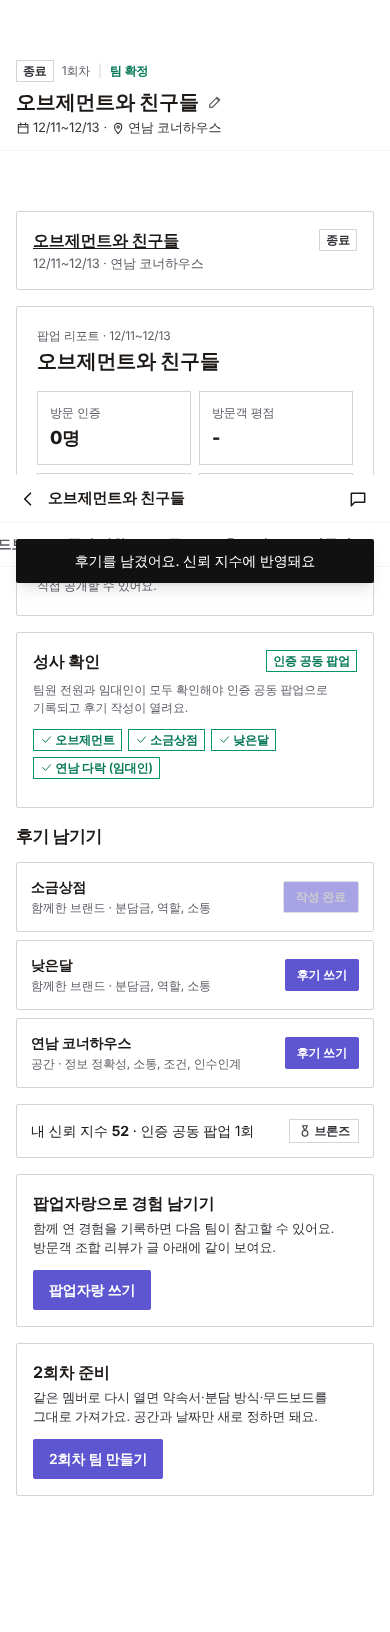
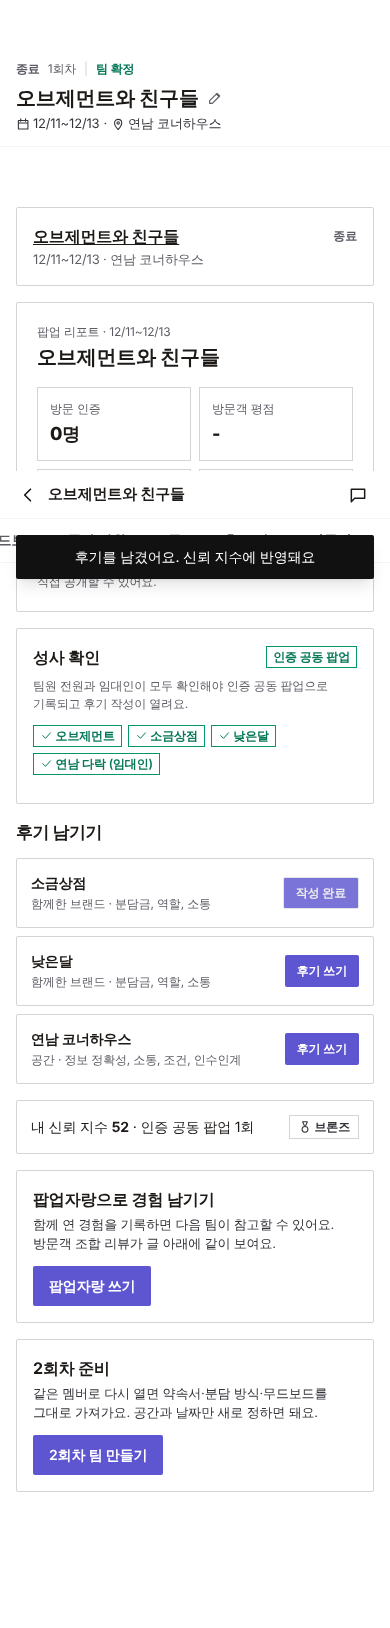
팝업·공간 상세: 태그 상자를 글줄로, 상태 표시를 글자로, 참여 브랜드 목록 정리
Claude-Session: https://claude.ai/code/session_0127PgxmrWax7HLBrSWBod79

diff --git a/src/screens/Popup.tsx b/src/screens/Popup.tsx
@@ -7,7 +7,7 @@ import { checkIn, claimStampReward, followAll, STAMP_GOAL, toggleWaitlist, write
 import { avg, brandById, dday, md, displayName, openNow, period, popupById, spaceById, spaceLatLng, teamById, waitCount } from '@/store/logic';
 import { KakaoMap, kakaoMapEnabled, type MapPin } from '@/components/KakaoMap';
 import { BrandLogo, PopupBannerCard, ScreenTitle, ThemeTagList } from '@/components/common';
-import { Button, Card, Chip, cx, Demo, Empty, inputCls, Segmented, Sheet, Stars, StatusPill, SubHeader, Swatch, Tabs, Tag, textareaCls, Ic, Icon } from '@/components/ui';
+import { Button, Card, Chip, cx, Demo, Empty, inputCls, Segmented, Sheet, Stars, SubHeader, Swatch, Tabs, textareaCls, Ic, Icon } from '@/components/ui';
 import type { DB } from '@/data/mock';
 import type { Popup } from '@/types';
 import { BrandActions } from './BrandActions';
@@ -29,9 +29,9 @@ export function ComboReviewList({ db, popupIds, sort = 'new' }: { db: DB; popupI
             <span className="text-[13px] font-semibold">{displayName(db, c.authorId)} <span className="text-ink-500 font-normal">· 방문 인증</span></span>
             <Stars value={c.rating} size="w-3.5 h-3.5" />
           </div>
-          <div className="mt-1.5 flex flex-wrap gap-1">
-            <Tag tone={c.good ? 'orange' : 'gray'}>{c.good ? '이 조합 좋았어요' : '조금 아쉬웠어요'}</Tag>
-            {c.pairs.map(([a, b]) => <Tag key={a + b} tone="purple">{brandById(db, a)?.name} × {brandById(db, b)?.name}</Tag>)}
+          <div className="mt-1 text-[12px]">
+            <span className={cx('font-bold', c.good ? 'text-brand-600' : 'text-ink-500')}>{c.good ? '이 조합 좋았어요' : '조금 아쉬웠어요'}</span>
+            {c.pairs.map(([a, b]) => <span key={a + b} className="text-ink-500"> · {brandById(db, a)?.name} × {brandById(db, b)?.name}</span>)}
           </div>
           <p className="text-sm text-ink-700 mt-1.5">{c.comment}</p>
         </Card>
@@ -79,10 +79,11 @@ export function PopupDetail({ id }: { id: string }) {
         </div>
       </div>
       <div className="p-4">
-        <div className="flex items-center gap-1.5 mb-1">
-          <StatusPill status={p.status} />
-          <Tag>{team.round}회차</Tag>
-          {allRatings.length > 0 && <Tag tone="yellow">★ {avg(allRatings).toFixed(1)}</Tag>}
+        <div className="flex items-center gap-1.5 mb-1 text-[12px] font-bold">
+          <span className={p.status === '진행 중' ? 'text-emerald-700' : 'text-ink-500'}>{p.status}</span>
+          <span className="text-ink-300">|</span>
+          <span className="text-ink-700">{team.round}회차</span>
+          {allRatings.length > 0 && <><span className="text-ink-300">|</span><span className="text-ink-700">★ {avg(allRatings).toFixed(1)}</span></>}
         </div>
         <h1 className="text-xl font-extrabold">{p.title}</h1>
         <div className="text-[13px] text-ink-500">팀 <button className="underline underline-offset-2" onClick={() => navigate({ name: 'team', id: team.id })}>{team.name}</button> · 방문 인증 {visitorsCount}명</div>
@@ -141,16 +142,16 @@ export function PopupDetail({ id }: { id: string }) {
         )}
 
         <h3 className="text-[17px] font-extrabold tracking-tight mt-9 mb-3">참여 브랜드 {brands.length}</h3>
-        <div className="space-y-2">
+        <div className="border-y border-ink-100 divide-y divide-ink-100">
           {brands.map((b) => (
-            <Card key={b.id} className="p-3 flex items-center gap-3">
+            <div key={b.id} className="py-3 flex items-center gap-3">
               <BrandLogo brand={b} size={44} />
               <button className="flex-1 text-left min-w-0" onClick={() => navigate({ name: 'brand', id: b.id })}>
                 <div className="font-bold text-sm">{b.name}</div>
                 <ThemeTagList tags={b.tags} limit={3} />
               </button>
               <BrandActions brandId={b.id} />
-            </Card>
+            </div>
           ))}
         </div>
 
@@ -399,7 +400,7 @@ export function StampsTab() {
           </div>
           {n >= STAMP_GOAL && (
             st.rewardClaimed ? (
-              <div className="mt-4 rounded border border-ink-900 p-3 text-center font-bold"><Ic n="medal" />공동 팝업 탐험가 배지 보유 중</div>
+              <div className="mt-4 rounded border border-ink-300 p-3 text-center font-bold"><Ic n="medal" />공동 팝업 탐험가 배지 보유 중</div>
             ) : (
               <Button full className="mt-4" onClick={() => claimStampReward(userId)}>혜택 배지 받기</Button>
             )

diff --git a/src/screens/Space.tsx b/src/screens/Space.tsx
@@ -37,9 +37,9 @@ function PromoPills({ promos, all }: { promos?: string[]; all?: boolean }) {
   if (!promos?.length) return null;
   const shown = all ? promos : promos.slice(0, 2);
   return (
-    <div className="flex flex-wrap gap-1.5 mt-2">
-      {shown.map((x) => <span key={x} className="inline-flex items-center h-6 px-2 border border-red-500 text-red-600 bg-white text-[12px] font-bold"><Ic n="gift" />{x}</span>)}
-      {!all && promos.length > shown.length && <span className="inline-flex items-center h-6 px-2 border border-red-500 text-red-600 bg-white text-[12px] font-bold">+{promos.length - shown.length}</span>}
+    <div className="flex flex-wrap gap-x-2.5 gap-y-1 mt-1.5">
+      {shown.map((x) => <span key={x} className="text-red-600 text-[12px] font-bold">{x}</span>)}
+      {!all && promos.length > shown.length && <span className="text-red-600 text-[12px] font-bold">+{promos.length - shown.length}</span>}
     </div>
   );
 }
@@ -330,11 +330,11 @@ export function SpaceDetail({ id }: { id: string }) {
         </div>
       </div>
       <div className="p-4">
-        <div className="flex items-center gap-1 flex-wrap mb-1.5">
-          <Tag>{s.region}</Tag>
-          {s.teamRental && <Tag tone="green">팀 단위 대관 가능</Tag>}
-          {canSoloRental(s) && <Tag tone="purple">단독 대관 가능</Tag>}
-          {s.fashionOnly && <Tag tone="purple">업종 고정(패션)</Tag>}
+        <div className="flex items-center gap-1.5 flex-wrap mb-1 text-[12px] font-bold">
+          <span className="text-ink-900">{s.region}</span>
+          {[s.teamRental && '팀 단위 대관 가능', canSoloRental(s) && '단독 대관 가능', s.fashionOnly && '업종 고정(패션)'].filter(Boolean).map((t) => (
+            <span key={t as string} className="contents"><span className="text-ink-300 font-normal">|</span><span className="text-ink-700">{t}</span></span>
+          ))}
         </div>
         <h1 className="text-xl font-extrabold">{s.name}</h1>
         <div className="text-[13px] text-ink-500 mt-0.5"><Ic n="pin" />{s.address}</div>
@@ -343,10 +343,10 @@ export function SpaceDetail({ id }: { id: string }) {
           return <KakaoMap pins={[{ id: s.id, lat, lng, label: s.name, tone: 'selected' }]} onSelect={() => {}} className="mt-3 w-full h-40 overflow-hidden border border-ink-300" fallback={null} />;
         })()}
         <p className="text-sm text-ink-700 mt-3 leading-relaxed">{s.intro}</p>
-        {!!s.keywords?.length && <div className="flex flex-wrap gap-1.5 mt-3">{s.keywords.map((k) => <Tag key={k}>#{k}</Tag>)}</div>}
+        {!!s.keywords?.length && <div className="flex flex-wrap gap-x-2 mt-3">{s.keywords.map((k) => <span key={k} className="text-[13px] font-semibold text-ink-700">#{k}</span>)}</div>}
         {!!s.promos?.length && (
-          <div className="mt-3 rounded border border-red-500 p-3">
-            <div className="text-[13px] font-bold text-red-600"><Ic n="gift" />진행 중인 할인·프로모션</div>
+          <div className="mt-4 border-l-2 border-red-500 pl-3 py-0.5">
+            <div className="text-[13px] font-bold text-ink-900">할인·프로모션</div>
             <PromoPills promos={s.promos} all />
             <p className="text-[12px] text-ink-500 mt-2">자세한 조건은 채팅으로 임대인에게 확인해 보세요.</p>
           </div>

diff --git a/src/components/ui.tsx b/src/components/ui.tsx
@@ -315,5 +315,6 @@ export function StatusPill({ status }: { status: string }) {
     pending: 'yellow', accepted: 'green', rejected: 'red', '준비 중': 'blue', '운영 중': 'orange',
   };
   const label: Record<string, string> = { pending: '대기', accepted: '수락', rejected: '거절' };
-  return <Tag tone={tone[status] ?? 'gray'}>{label[status] ?? status}</Tag>;
+  const color = { green: 'text-emerald-700', yellow: 'text-amber-700', gray: 'text-ink-500', orange: 'text-brand-600', blue: 'text-ink-900', red: 'text-red-600' }[tone[status] ?? 'gray'];
+  return <span className={cx('inline-flex items-center text-[12px] font-bold whitespace-nowrap', color)}>{label[status] ?? status}</span>;
 }

diff --git a/src/screens/BrandActions.tsx b/src/screens/BrandActions.tsx
@@ -18,7 +18,7 @@ export function BrandActions({ brandId, big }: { brandId: string; big?: boolean 
     return (
       <button
         onClick={() => guard(() => toggleHeart(brand.id, brandId))}
-        className={cx('rounded border flex items-center justify-center shrink-0', big ? 'w-10 h-10' : 'w-9 h-9', on ? 'border-red-200 bg-red-50 text-red-500' : 'border-ink-300 text-ink-500')}
+        className={cx('flex items-center justify-center shrink-0', big ? 'w-10 h-10 rounded border border-ink-300' : 'w-9 h-9', on ? 'text-red-500' : 'text-ink-400')}
         aria-label="관심 표시"
       >
         <Icon name="heart" filled={on} className="w-5 h-5" />
